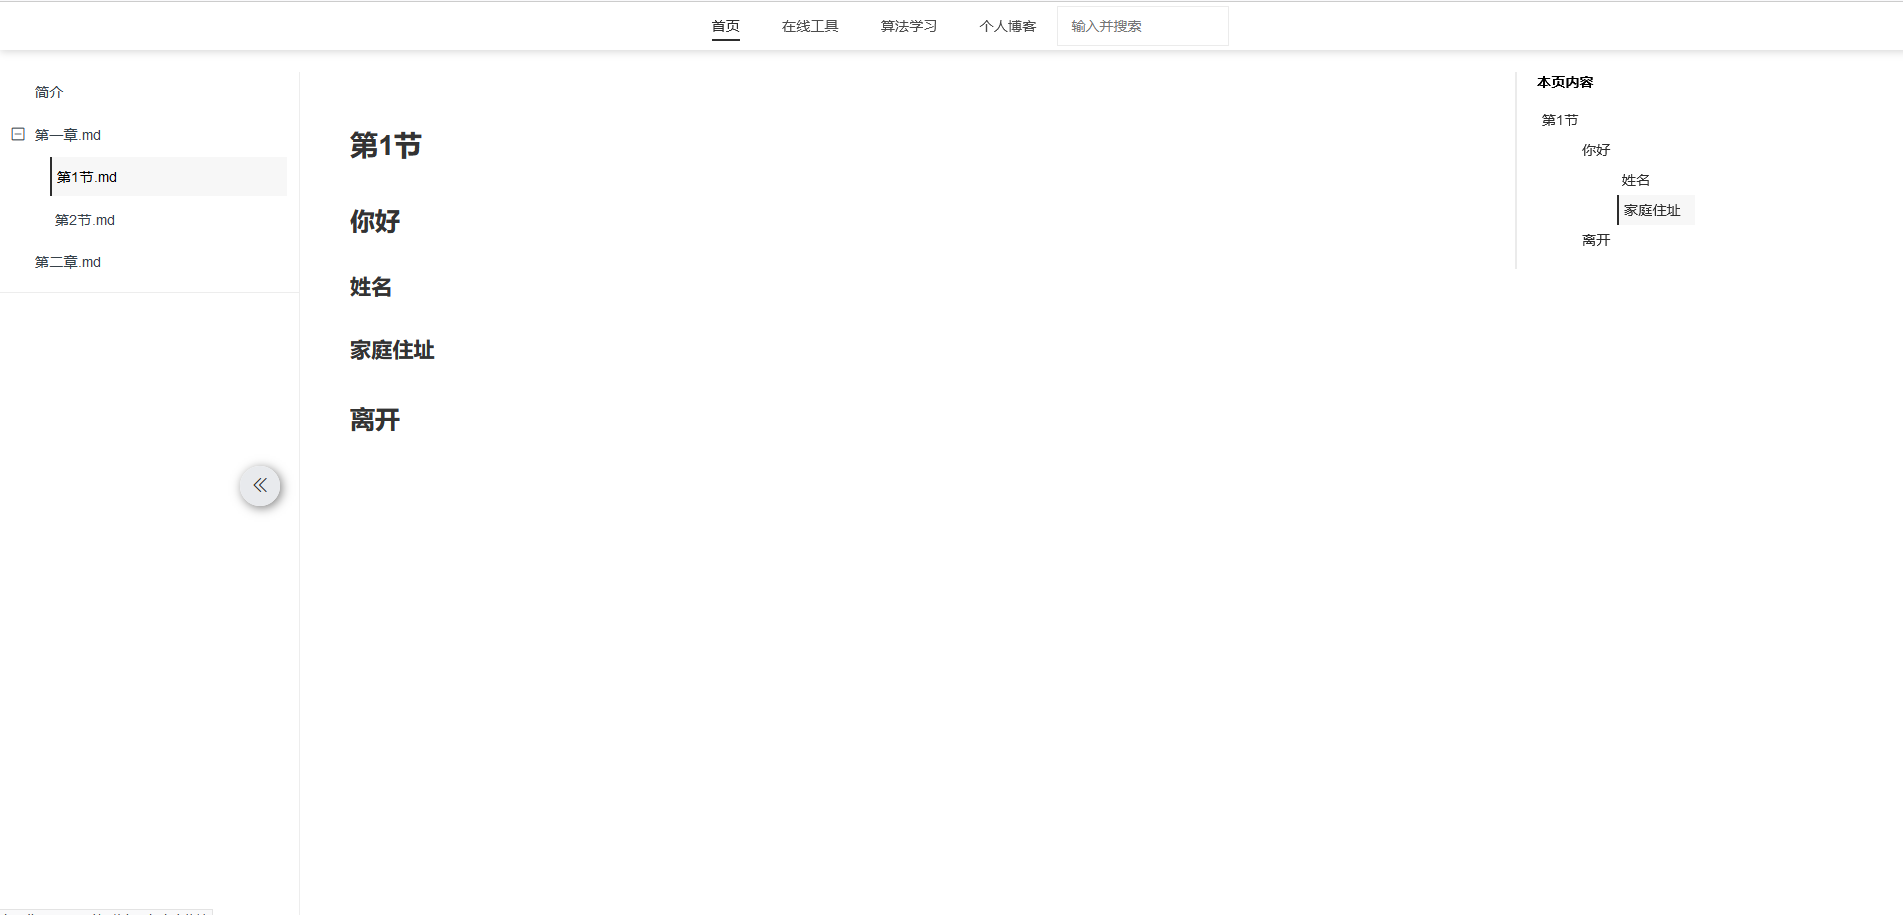
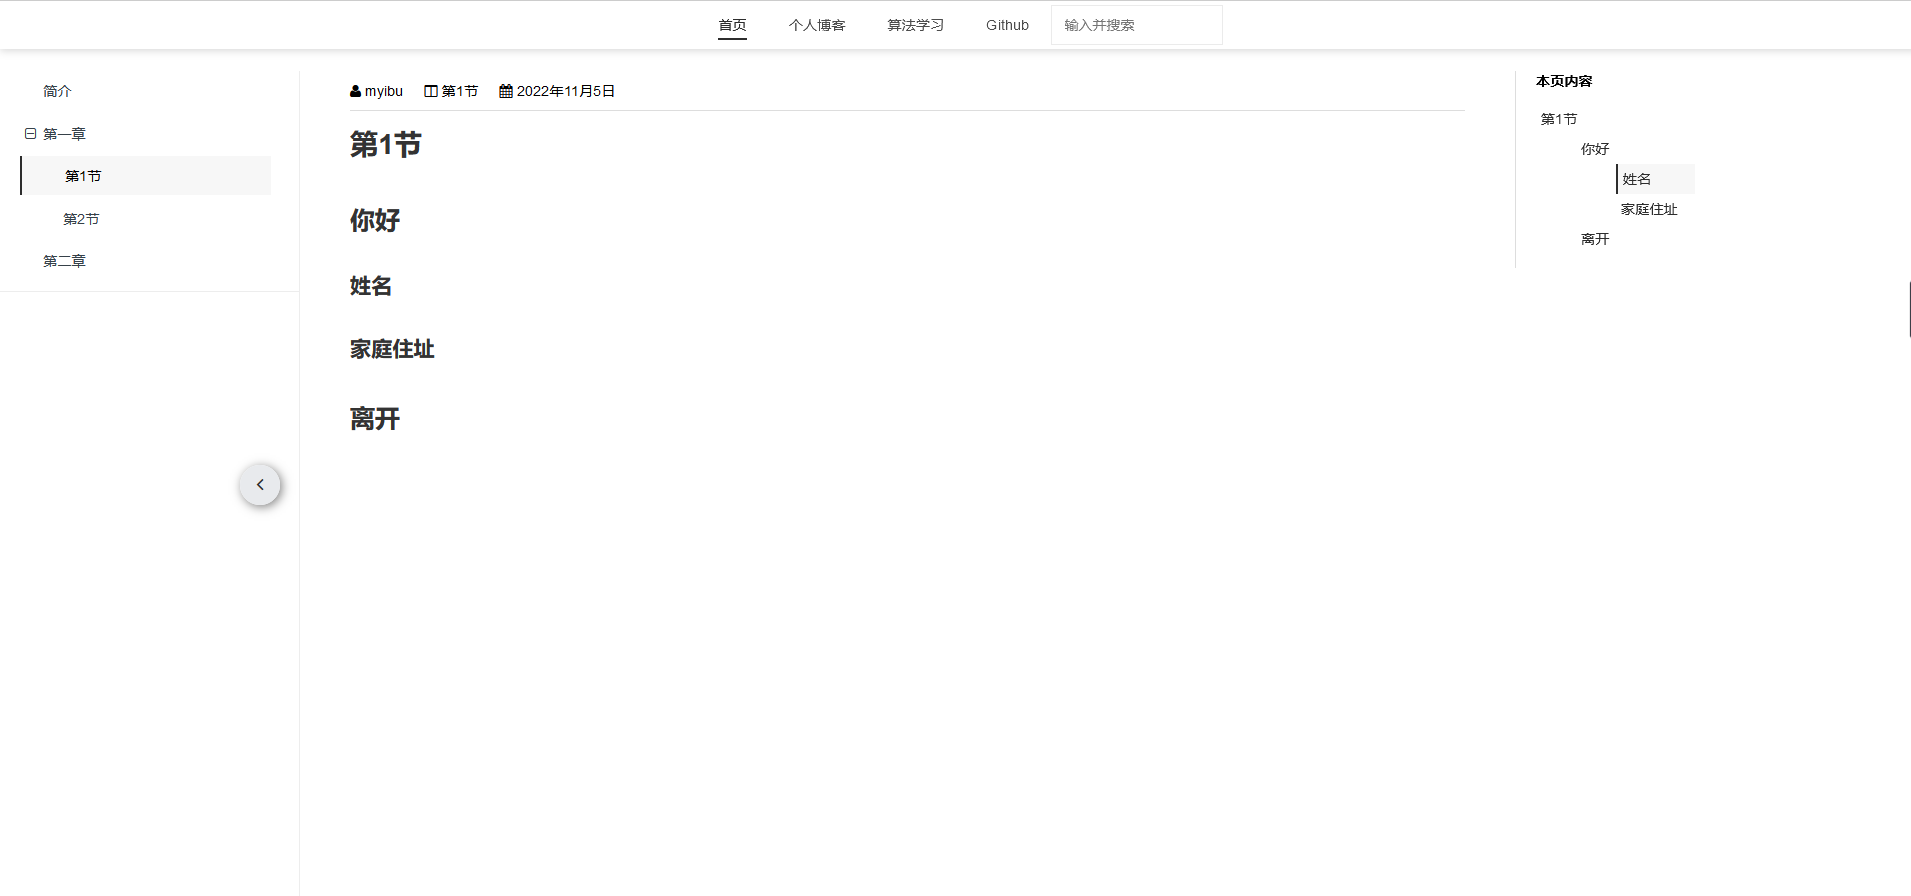
version: 0.0.11

diff --git a/readme.md b/readme.md
@@ -57,5 +57,10 @@ or config in your `book.json`
 ### ~~0.0.9~~
 - add top navigation menu
 
-### 0.0.10
+### ~~0.0.10~~
 - replace iconfont with fontawesome(version 4.6.3, see https://fontawesome.com/v4/icons/)
+
+### 0.0.11
+- fix bug: code can not scroll
+- add page header
+- fix bug: topMenu home link can not visit
